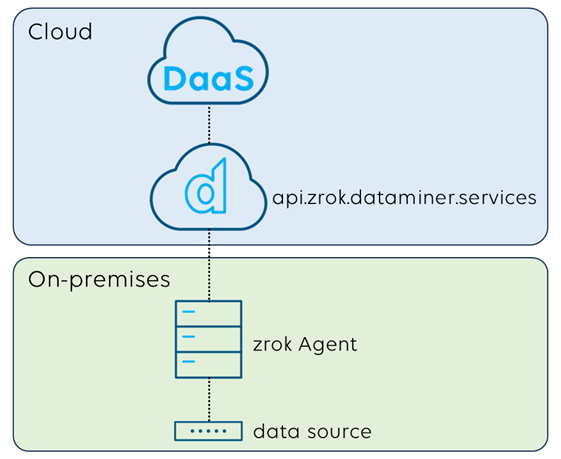
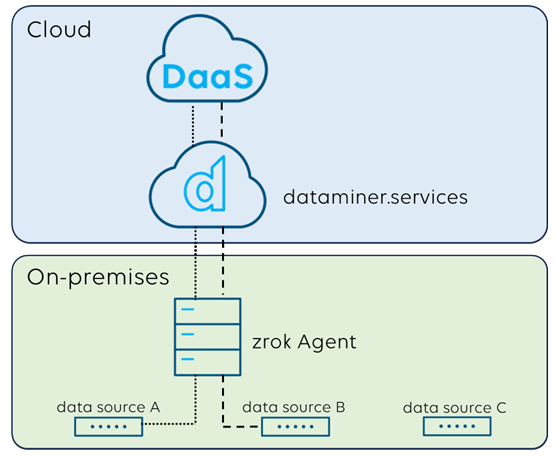
updates

diff --git a/dataminer/Functions/SiteManager/SiteManagerGettingStarted.md b/dataminer/Functions/SiteManager/SiteManagerGettingStarted.md
@@ -6,8 +6,9 @@ uid: SiteManagerGettingStarted
 
 ## Site Manager DxM installation
 
-The Site Manager DxM runs next to a DataMiner Agent. The Site Manager DxM is included by default with the 10.5.10 DaaS image.
-In the Windows services overview, you should see two services:
+The Site Manager DxM must run on the same machine the DataMiner Agent runs from which you want to connect to remote data sources. The Site Manager DxM is included by default with the 10.5.10 DaaS image.
+
+After installing the Site Manager DxM, in the Windows services overview, you should see two services:
 
 - DataMiner SiteManager: This is the Site Manager DxM that interacts with DataMiner and the zrok-agent process
 - zrok-agent: This is the zrok Agent service with which the Site Manager DxM communicates for creating the communication tunnels
@@ -16,36 +17,56 @@ In the Windows services overview, you should see two services:
 
 To allow DataMiner to access an on-premises data source via the Site Manager, the following steps are needed:
 
-1. On a machine on your on-premises network, run the [DataMiner SiteManager setup](https://github.com/SkylineCommunications/dataminer-sitemanager-setup) script specifying the **token** and a provide a **description**. 
+1. On a machine on your on-premises network (this does not need to be on the same server where the data source is running), run the [DataMiner SiteManager setup](https://github.com/SkylineCommunications/dataminer-sitemanager-setup) script specifying the **token** and a provide a **description**.
 
-  The token you need to specify can be found in the Site Manager log: In Cube, open the log file of the Site Manager DxM. (*Apps* > *System Center* > *Logging* > *Site Manager (DxM)*). The log file should contain a line mentioning a token as follows `Your account token is aWsTbeKpwARK. You can now get started configuring your site(s). Learn more at https://aka.dataminer.services/SiteManagerGettingStarted."`. Copy this token. 
+    The token you need to specify can be found in the Site Manager log: In Cube, open the log file of the Site Manager DxM. (*Apps* > *System Center* > *Logging* > *Site Manager (DxM)*). The log file should contain a line mentioning a token as follows `Your account token is aWsTbeKpwARK. You can now get started configuring your site(s). Learn more at https://aka.dataminer.services/SiteManagerGettingStarted."`. Copy this token.
 
-  The description you need to provide should be a concise description of the site from which you are exposing data sources. This description will be shown in the Site dropdown for configuring a connection in the element edit wizard in Cube.
+    The description you need to provide should be a concise description of the site from which you are exposing data sources. This description will be shown in the Site dropdown for configuring a connection in the element edit wizard in Cube.
 
-  > [!NOTE]
-  >
-  > - This script needs to be executed on a Windows operating system
-  > - The script must run as administrator
-  > - The machine on which you install this script must be able to access the data source(s) you wish to expose
+    > [!NOTE]
+    >
+    > - This script needs to be executed on a Windows operating system
+    > - The script must run as administrator
+    > - In case PowerShell's execution policy prevents the execution, specify an execution policy (e.g. `-ExecutionPolicy Bypass`). For more information regarding PowerShell's execution policy, refer to [About execution policies](https://learn.microsoft.com/en-us/powershell/module/microsoft.powershell.core/about/about_execution_policies?view=powershell-7.5).
+    > - The machine on which you install this script must be able to access the data source(s) you wish to expose
+    > - Updating a description is not straightforward. To update a description, an reinstallation needs to be performed. Also, once data sources have been configured to set up a connection with this site, the configuration of these data sources will also need to be updated.
 
-  E.g.: `.\Setup-DataMinerSiteManager.ps1 install aWsTbeKpwARK MySiteDescription`.
-  To uninstall, execute the following command: `.\Setup-DataMinerSiteManager.ps1 uninstall`.
+    You can use the following command execute the install script. Replace the placeholders with your token and description.
+
+    ```powershell
+    iex "& { $(iwr https://raw.githubusercontent.com/SkylineCommunications/dataminer-sitemanager-setup/main/Setup-DataMinerSiteManager.ps1) } -Command install -ZrokAccountToken <token> -ZrokEnvironmentDescription '<description>'"
+    ```
+
+    To uninstall, the following command can be executed:
+
+    ```powershell
+    iex "& { $(iwr https://raw.githubusercontent.com/SkylineCommunications/dataminer-sitemanager-setup/main/Setup-DataMinerSiteManager.ps1) } -Command uninstall"
+    ```
 
 1. After successful installation, you can start exposing your data source(s) so the DataMiner Site Manager can set up a tunnel for each data source it needs to communicate with.
 
-Open a command window and execute the following commmand: `set USERPROFILE=c:\Windows\System32\config\systemprofile`.
-For each data source you wish to expose, perform the following steps:
+    > [!NOTE]
+    > When in a command prompt, make sure to first execute the following command `set USERPROFILE=c:\Windows\System32\config\systemprofile`.
+    > If you are in a Powershell shell, execute the following command: `$env:USERPROFILE = "C:\Windows\System32\config\systemprofile"`.
+    
+    For each data source you wish to expose, perform the following steps:
 
-  1. `zrok reserve private --backend-mode <backendMode> <endpoint>`, where `<backendMode` is either *tcpTunnel* or *udpTunnel* and `<endpoint>` specifies the endpoint you want to expose. E.g.: `zrok reserve private --backend-mode tcpTunnel 127.0.0.1:4208`. When executing this command, you should see the following output: `your reserved share token is '2dxzh484zn3'`. Copy the token and execute the next command.
-  1. `zrok share reserved <token>`, where `<token>` is the token value shown in the output of the previous command.
+    1. `zrok reserve private --backend-mode <backendMode> <endpoint>`, where `<backendMode` is either *tcpTunnel* or *udpTunnel* and `<endpoint>` specifies the endpoint you want to expose. E.g.: `zrok reserve private --backend-mode tcpTunnel 127.0.0.1:4208`. When executing this command, you should see the following output: `your reserved share token is '2dxzh484zn3'`. Copy the token and execute the next command.
+    1. `zrok share reserved <token>`, where `<token>` is the token value shown in the output of the previous command.
 
-  > [!NOTE]
-  > If you specify the endpoint to be shared using the IP address, then to access the data source in DataMiner you will also need to specify the IP address.
-  > Similarly, if you use the host name, you will also need to specify the host name in DataMiner Cube.
+    > [!NOTE]
+    > If you specify the endpoint to be shared using the IP address, then to access the data source in DataMiner you will also need to specify the IP address.
+    > Similarly, if you use the host name, you will also need to specify the host name in DataMiner Cube.
 
 ### Getting an overview of shared resources
 
-To get an overview of the endpoints that have been shared, type the following command: `zrok agent status`. This will give an overview as follows:
+To get an overview of the endpoints that have been shared, type the following command:
+
+```powershell
+zrok agent status
+```
+
+This will give an overview as follows:
 
 ```bash
 TOKEN         RESERVED  SHARE MODE  BACKEND MODE  TARGET
@@ -53,19 +74,38 @@ TOKEN         RESERVED  SHARE MODE  BACKEND MODE  TARGET
 1 shares in agent
 ```
 
-Alternatively, you can also obtain an overview in the browser by navigating to the web frontend of the zrok Agent.
-To know on which port the web frontend is running, perform the following command: `zrok agent version`. In addition to the version, the output will also show the endpoint of the web frontend, e.g. `127.0.0.1:8888`.
+Alternatively, you can also obtain an overview in the browser by navigating to the web frontend of the zrok Agent. To know on which port the web frontend is running, perform the following command:
+
+```powershell
+zrok agent version
+```
+
+In addition to the version, the output will also show the endpoint of the web frontend, e.g. `127.0.0.1:8888`.
 Navigating to this endpoint in the browser should show a similar overview as the status command.
+
+![Overview](~/dataminer/images/zrok_agent_webui.png)<br>*zrok Agent web UI*
 
 ### Stop sharing an endpoint
 
-In case you no longer want to expose a specific endpoint, execute the following command:
+In case you no longer want to expose a specific endpoint, execute the following commands:
 
-`zrok agent release share <shareToken>`, where `<shareToken>` is the share token for this specific endpoint (e.g. `02x31uu2yacbh`).
+```powershell
+zrok release <shareToken>
+```
 
-## Creating an element that cummunicates with a data source through a tunnel
+, where `<shareToken>` is the share token for this specific endpoint (e.g. `02x31uu2yacbh`). This will release the share from the zrok controller.
 
-Once a data source has been exposed, you are ready to connect to it from a DaaS system.
+Then execute the following command:
+
+```powershell
+zrok agent release share <shareToken>
+```
+
+This will release the share from the zrok Agent.
+
+## Creating an element that communicates with a data source through a tunnel
+
+Once a data source has been shared, you are ready to connect to it from a DaaS system.
 
 In Cube, create a new element as explained in [Adding elements](xref:Adding_elements).
 For a connection that should communicate with a data source on a remote site (through a secure tunnel), specify the site in Site dropdown.
@@ -75,11 +115,9 @@ Fill in the IP or host name of the exposed data source.
 
 > [!IMPORTANT]
 >
-> - If you specified the endpoint to be shared using the IP address, then to access the data source in DataMiner you will also need to specify the IP address.
->   Similarly, if you used the host name, you will also need to specify the host name in DataMiner Cube.
+> If you specified the endpoint to be shared (in the zrok reserve command) using the IP address, then to access the data source in DataMiner you will also need to specify the IP address. Similarly, if you used the host name, you will also need to specify the host name in DataMiner Cube.
 
-A tunnel will only be created as long that at least one element is actively connecting to this endpoint.
-For example, if you have an element that sets up a connection to a data source on a remote site, the tunnel will be created when the element is started.
-As soon as the element is stopped or deleted, the tunnel will be tore down.
+A tunnel will only be created as long as at least one element is actively connecting to this endpoint.
+For example, if you have an element that sets up a connection to a data source on a remote site, the tunnel will only be created when the element is started. As soon as the element is stopped or deleted, the tunnel will be tore down.
 
-Note also that in case multiple elements connect to the same remote endpoint, only a single tunnel will be set up and this tunnel will be shared by the elements. The tunnel will only be tore down when all elements that connect to this remote endpoint are either stopped or deleted.
+Note also that in case multiple elements on the same DataMiner Agent connect to the same remote endpoint, only a single tunnel will be set up and this tunnel will be shared by the elements on that DataMiner Agent. The tunnel will only be tore down when all elements that connect to this remote endpoint are either stopped or deleted.

diff --git a/dataminer/Functions/SiteManager/SiteManagerOverview.md b/dataminer/Functions/SiteManager/SiteManagerOverview.md
@@ -6,9 +6,7 @@ uid: SiteManagerOverview
 
 ## Prerequisites
 
-The Site Manager DxM extension module requires DataMiner 10.5.10.
-
-The Site Manager DxM is shipped with the DaaS image of DataMiner 10.5.10. In case you are running an older DaaS version, an upgrade is required and the Site Manager DxM will need to be installed. For more information on how to upgrade DataMiner and install a DxM, refer to [Upgrading a DataMiner Agent](xef:Upgrading_a_DataMiner_Agent).
+The Site Manager DxM extension module requires DataMiner 10.5.10. The Site Manager DxM is shipped with the DaaS image of DataMiner 10.5.10. In case you are running an older DaaS version, an upgrade is required and the Site Manager DxM will need to be installed. For more information on how to upgrade DataMiner and install a DxM, refer to [Upgrading a DataMiner Agent](xef:Upgrading_a_DataMiner_Agent).
 
 ## Supported connection types and limitations
 
@@ -29,5 +27,8 @@ Limitations:
 ## Architecture
 
 The Site Manager DxM makes use of [zrok](https://zrok.io/), a secure, open-source platform that allows privately sharing data source. zrok is built on top of [OpenZiti](https://openziti.io/), an open source zero-trust networking platform by [NetFoundry](https://netfoundry.io/).
+
+In the image below, two data sources, A and B, have been exposed and are polled by a DaaS system.
+Note that each data source has its own dedicated tunnel. Data source C is not exposed and is therefore not visible externally.
 
 ![Overview](~/dataminer/images/SiteManagerOverview.png)<br>*Tunneling overview*

diff --git a/dataminer/Functions/SiteManager/SiteManagerTroubleshooting.md b/dataminer/Functions/SiteManager/SiteManagerTroubleshooting.md
@@ -10,8 +10,8 @@ uid: SiteManagerTroubleshooting
 
 This means that the tunnel could not be set up. This could be because of several reasons:
 
-- The provided IP address or host does not match that of an exposed data source on the specified site
-- When exposing the data source, only one of two required zrok commands were executed. Make sure to execute both zrok commands as explained in [On-premises setup](xref:SiteManagerGettingStarted#on-premises-setup)
+- The provided IP address or host does not match that of an exposed data source on the specified site as specified when executing the zrok reserve command
+- When exposing the data source, only one of the two required zrok commands were executed. Make sure to execute both zrok commands as explained in [On-premises setup](xref:SiteManagerGettingStarted#on-premises-setup)
 - The Site Manager DxM is not running
 - The zrok Agent service is not running
 - The zrok controller is not running
@@ -35,6 +35,7 @@ If you are in a Powershell shell, execute the following command: `$env:USERPROFI
 The Site Manager log file logs all tunnel creation and teardown activity.
 If an element is in error state, the log file can provide more information about the root cause.
 To open the Site Manager log file in Cube, navigate to *Apps* > *System Center* > *Logging* > *Site Manager (DxM)*.
+
 This log file is also included in a Log Collector package.
 
 #### SLDataMiner log file

diff --git a/dataminer/Functions/SiteManager/SiteManager_DxM.md b/dataminer/Functions/SiteManager/SiteManager_DxM.md
@@ -5,7 +5,7 @@ uid: SiteManager_DxM
 # Site Manager
 
 The Site Manager module is available as a DxM ([DataMiner Extension Module](xref:DataMinerExtensionModules)).
-This extension module allows seting up secure communication tunnels enabling communication with selected on-premise data sources from a DaaS system without having to configure e.g. a Site-to-Site VPN.
+This extension module allows setting up secure communication tunnels enabling communication with selected on-premise data sources from a DaaS system without having to configure e.g. a Site-to-Site VPN.
 
 - [Overview](xref:SiteManagerOverview)
 - [Getting Started](xref:SiteManagerGettingStarted)
